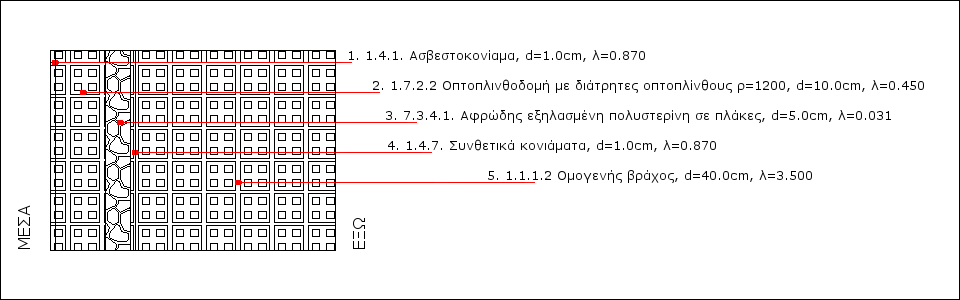
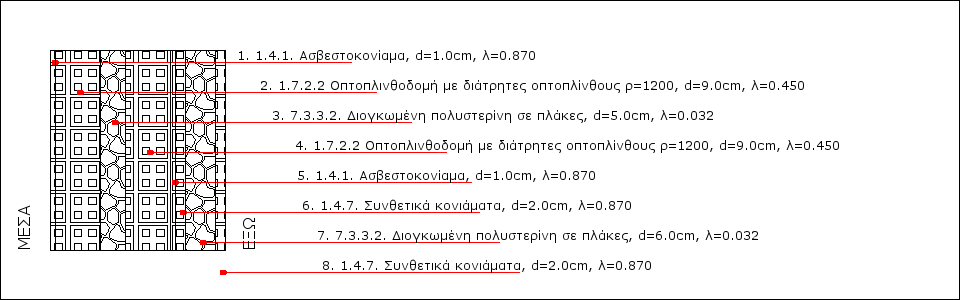
Prevent notices that break images
Prevent notices that break images.
CK Editor prevent XSS injections (encode tags).
Fixing draw blueprint (check 3 points for filled polygon).

diff --git a/includes/anoigmata_image_creation.php b/includes/anoigmata_image_creation.php
@@ -27,9 +27,9 @@ along with this program.  If not, see http://www.gnu.org/licenses/gpl-3.0.html.
 //ini_set('display_errors',1); 
 //error_reporting(E_ALL);
 //πάρε τις τιμές
-define('INCLUDE_CHECK',true);
-require("medoo.php");
-require("session.php");
+//define('INCLUDE_CHECK',true);
+//require("medoo.php");
+//require("session.php");
 
 	$name=$_GET["name"];
 	$aw=$_GET["aw"];
@@ -103,7 +103,6 @@ $font = './verdana.ttf';
 // θέσε HTTP header type σε PNG
 header("Content-type: image/png");
 // στείλε την PNG εικόνα στο browser
-ob_clean();
 ImagePNG($im);
 
 // κατέστρεψε τον pointer για την εικόνα στη μνήμη για να απελευθερώσεις πόρους

diff --git a/includes/functions_math.php b/includes/functions_math.php
@@ -201,8 +201,7 @@ function find_closer_climate($lat2, $lng2){
 }
 
 //Μετατροπή συντεταγμένων από μοίρες, λεπτά, δεύτερα σε δεκαδικό
-function DMStoDEC($deg,$min,$sec)
-{
+function DMStoDEC($deg,$min,$sec){
 
 // Converts DMS ( Degrees / minutes / seconds ) 
 // to decimal format longitude / latitude
@@ -211,8 +210,7 @@ function DMStoDEC($deg,$min,$sec)
 }    
 
 //Μετατροπή συντεταγμένων από δεκαδικό σε μοίρες, λεπτά, δεύτερα
-function DECtoDMS($dec)
-{
+function DECtoDMS($dec){
 
 // Converts decimal longitude / latitude to DMS
 // ( Degrees / minutes / seconds ) 

diff --git a/includes/calc_skiaseis_f.php b/includes/calc_skiaseis_f.php
@@ -23,7 +23,6 @@ along with this program.  If not, see http://www.gnu.org/licenses/gpl-3.0.html.
 στην έκδοση 3 αυτής της άδειας.
 Το παρόν σχόλιο πρέπει να παραμένει ως έχει ώστε να τηρείται η παραπάνω άδεια κατά τη διανομή.
 */
- 
 define('INCLUDE_CHECK',true);
 require("medoo.php");
 require("session.php");

diff --git a/pages/menu_meleti_zones.php b/pages/menu_meleti_zones.php
@@ -332,7 +332,7 @@ var hospital = document.getElementById('editzone_hospital').value;
 	//AJAX call
 	var xmlhttp=new XMLHttpRequest();
 	
-	xmlhttp.open("GET","includes/functions_calc.php?id_xrisi="+xrisi+"&hotel="+hotel+"&hospital="+hospital ,true);
+	xmlhttp.open("GET","includes/functions_calc.php?id_xrisi="+xrisi+"&hotel=1&hospital=1" ,true);
 	xmlhttp.send();
 	
 	xmlhttp.onreadystatechange=function()  {

diff --git a/pages/menu_calc_znx.php b/pages/menu_calc_znx.php
@@ -239,7 +239,7 @@ var hospital = document.getElementById('znx_hospital_cat').value;
 	//AJAX call
 	var xmlhttp=new XMLHttpRequest();
 	
-	xmlhttp.open("GET","includes/functions_calc.php?id_xrisi="+xrisi+"&hotel="+hotel+"&hospital="+hospital ,true);
+	xmlhttp.open("GET","includes/functions_calc.php?id_xrisi="+xrisi+"&hotel=1&hospital=1" ,true);
 	xmlhttp.send();
 	
 	xmlhttp.onreadystatechange=function()  {

diff --git a/pages/menu_calc_synthikes.php b/pages/menu_calc_synthikes.php
@@ -322,7 +322,7 @@ var hospital = document.getElementById('hospital_cat').value;
 	//AJAX call
 	var xmlhttp=new XMLHttpRequest();
 	
-	xmlhttp.open("GET","includes/functions_calc.php?id_xrisi="+xrisi+"&hotel="+hotel+"&hospital="+hospital ,true);
+	xmlhttp.open("GET","includes/functions_calc.php?id_xrisi="+xrisi+"&hotel=1&hospital=1" ,true);
 	xmlhttp.send();
 	
 	xmlhttp.onreadystatechange=function()  {

diff --git a/includes/draw_wall.php b/includes/draw_wall.php
@@ -278,7 +278,7 @@ if(isset($_GET['draw']) AND $_GET['draw']==1){
 	
 	
 	$dW = $l;
-    $dH = $d+$ffin_r[1]*100;
+    $dH = $d+$ffin_r_txt[1]*100;
 	$values = array();
 	$image = imageCreateTrueColor ($dW, $dH);
 	$imagebg = imageCreateFromPNG ($hatch1); 
@@ -327,9 +327,3 @@ if(isset($_GET['draw']) AND $_GET['draw']==1){
     imagedestroy ($imagebg);
 }
 ?>
-
-
-
-
-
-

diff --git a/includes/draw_floor.php b/includes/draw_floor.php
@@ -331,8 +331,10 @@ if (isset($_GET['floor'])){$floor=$_GET["floor"];}
 		
 		$i++;
 	}//Για κάθε τοίχο
-			
-	imagefilledpolygon($image, $points ,$i-1 ,$fill_color);
+	
+	if(count($points)>6){
+		imagefilledpolygon($image, $points ,$i-1 ,$fill_color);
+	}
 	
 	$e_sum=$e_sum+($current_x*$y0-$current_y*$x0);
 	$ev=(abs($e_sum)/2)/($scale*($scale/100)*100);

diff --git a/includes/draw_floor_mthx.php b/includes/draw_floor_mthx.php
@@ -330,7 +330,9 @@ if (isset($_GET['floor'])){$floor=$_GET["floor"];}
 		$i++;
 	}//Για κάθε τοίχο
 			
-	imagefilledpolygon($image, $points ,$i-1 ,$fill_color);
+	if(count($points)>6){
+		imagefilledpolygon($image, $points ,$i-1 ,$fill_color);
+	}
 	
 	$e_sum=$e_sum+($current_x*$y0-$current_y*$x0);
 	$ev=(abs($e_sum)/2)/($scale*($scale/100)*100);

diff --git a/pages/menu_calc_light.php b/pages/menu_calc_light.php
@@ -307,7 +307,7 @@ function lamp_zone(){
 	//AJAX call
 	var xmlhttp=new XMLHttpRequest();
 	
-	xmlhttp.open("GET","includes/functions_calc.php?id_xrisi="+xrisi+"&hotel=0&hospital=0"  ,true);
+	xmlhttp.open("GET","includes/functions_calc.php?id_xrisi="+xrisi+"&hotel=1&hospital=1"  ,true);
 	xmlhttp.send();
 	
 	xmlhttp.onreadystatechange=function()  {

diff --git a/includes/functions_meleti_general.php b/includes/functions_meleti_general.php
@@ -182,7 +182,6 @@ if (isset($_GET['findu_adiafani'])){
 
 //ajax call για την επιστροφή g από προσανατολισμό κτιρίου
 if (isset($_GET['findg_adiafani'])){
-	$id = $_GET['id'];
 	define('INCLUDE_CHECK',true);
 	require("medoo.php");
 	require("session.php");
